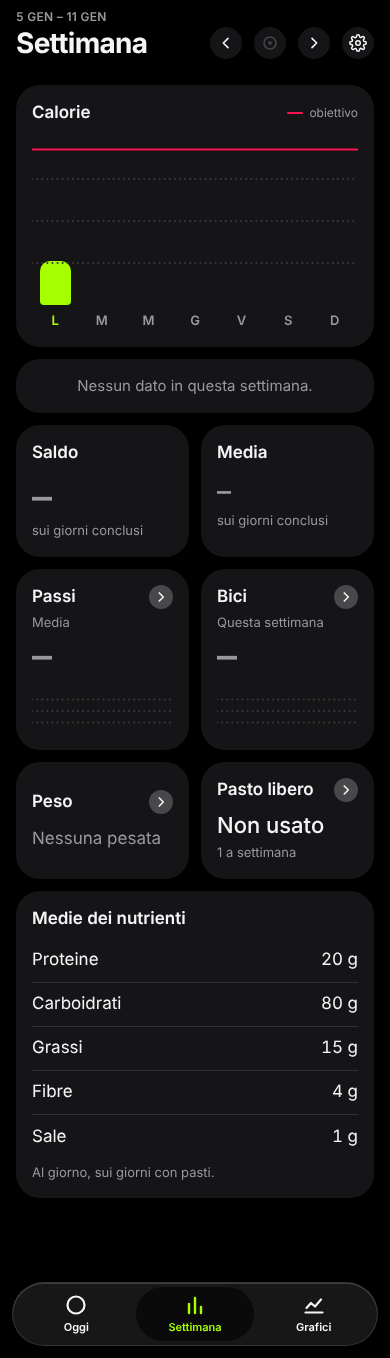
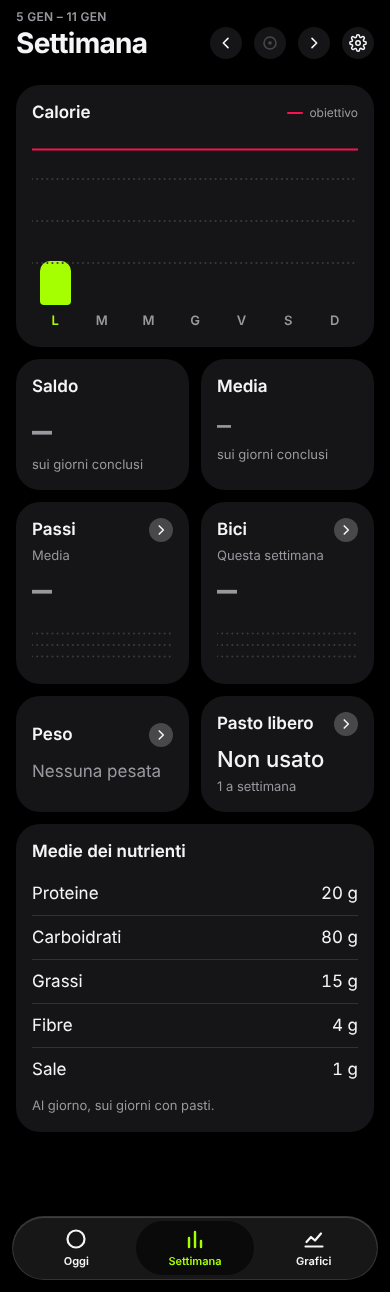
T6b.4 correzione: la Settimana non è vuota se ci sono pasti di oggi
Claude-Session: https://claude.ai/code/session_01TQMVgMkE62napq6RZvzJ62

diff --git a/src/app/lib/week-view.ts b/src/app/lib/week-view.ts
@@ -37,7 +37,7 @@ export function buildWeekView(input: { date: DateKey; days: readonly Day[]; sett
     barRatio: d.kcalEaten / top,
     targetRatio: d.target / top,
   }));
-  const isEmpty =
-    summary.balance === null && summary.totalKm === null && summary.avgSteps === null;
+  // Senza pasti (anche quelli di oggi: il saldo non li conta), km e passi. Il saldo non basta: con i soli pasti di oggi è assente.
+  const isEmpty = !summary.days.some((d) => d.hasMeals) && summary.totalKm === null && summary.avgSteps === null;
   return { summary, bars, avgRatio: summary.avgKcal === null ? null : summary.avgKcal / top, isEmpty };
 }

diff --git a/src/app/lib/week-view.test.ts b/src/app/lib/week-view.test.ts
@@ -83,4 +83,10 @@ describe("linea della media kcal (T5b.6)", () => {
     const v = buildWeekView({ date: "2026-01-05", days, settings: s, today: "2026-01-20" });
     expect(v.avgRatio as number).toBeLessThanOrEqual(1);
   });
+
+  it("solo i pasti di oggi: il saldo è assente (trattino) ma la settimana non è vuota", () => {
+    const v = buildWeekView({ date: "2026-01-05", days: [day("2026-01-05", [meal("a", 600)])], settings: s, today: "2026-01-05" });
+    expect(v.summary.balance).toBeNull();
+    expect(v.isEmpty).toBe(false);
+  });
 });

diff --git a/docs/DIARIO.md b/docs/DIARIO.md
@@ -82,7 +82,7 @@ Una riga per task chiuso.
 - T6b.1 · fatto · misurati con `npm run prova-comandi` Oggi (con pasti/senza/futuro), Settimana (con dati/senza/appena iniziata, anche altezza delle schede Calorie, Passi, Bici), scheda del piatto (AI↔Manuale, caricamento, errore), pannello Aggiungi (prima/dopo la proposta), Impostazioni (elenco↔pagina). Spostati e corretti con `tall` (altezza fissa, il corpo scorre dentro): Aggiungi, Modifica piatto, Impostazioni; la prova sul codice precedente falliva (12 controlli). Oggi e Settimana già fermi. Non corretto, da riferire: la scheda Calorie di Oggi è alta 227,5 px con la riga di composizione e 196 senza (BRIEF §2: la riga c'è solo se c'è qualcosa oltre alla base).
 - T6b.2 · fatto · «Attiva»/«Attivo» in Collegamenti nel colore In obiettivo (`valueTone` di `ValueRow`); nello scorrimento ogni azione è una tessera separata (raggio tessera, spazio di 8 px) nel componente condiviso `SwipeRow`, quindi Preferiti e Oggi (e gli elenchi dei pannelli della Settimana) hanno lo stesso aspetto; «Calorie di base» calcolate in Obiettivi mostrate «2.140» finché il campo non ha il fuoco (`shown` di `RowInput`), kcal della proposta AI col punto (`kcalText`); test del formato su 999, 1000, 2140, 12345; ricerca a mano dei numeri non formattati in `src/app`: nessun altro caso. `tools/prova-scorrimento.mjs`: il passo 7 tocca la parte visibile della riga aperta.
 - T6b.3 · fatto · `oggi-dopo-modifica-settimana` riparato (era lo scenario: dalla fase 6 si elimina scorrendo e l'etichetta è «Elimina il valore di Giovedì 8»; nessun difetto dell'app); `tools/screens.mjs` prosegue dopo uno scenario rotto, elenca i falliti in fondo (`XX … SCENARIO FALLITO`) ed esce con errore (provato con uno scenario volutamente rotto, poi tolto); rigenerati tutti i 16 scenari `nav-*` e `pasti-*` (10 PNG cambiati: nav-avviso-salute, nav-fine-pagina-375, nav-impostazioni-settimana, nav-intestazione-375, nav-oggi-altro-giorno, nav-oggi, pasti-libero-piu-piatti, pasti-quattro, pasti-tre-piatti, pasti-un-piatto).
-- T6b.4 · fatto · `weekSummary`: il saldo mostrato conta solo i giorni con pasti precedenti a oggi (senza `today` nessuno escluso); `runBalance`/`weekBalanceBefore` e i test esistenti invariati; nuovi test AJ (+200), AK (trattino), AL (−400), AM (+300) e tre di contorno. Scheda Saldo: «sui giorni conclusi» al posto di «di margine» / «da recuperare»; scenari `settimana-saldo-conclusi` e `settimana-saldo-trattino`.
+- T6b.4 · fatto · `weekSummary`: il saldo mostrato conta solo i giorni con pasti precedenti a oggi (senza `today` nessuno escluso); `runBalance`/`weekBalanceBefore` e i test esistenti invariati; nuovi test AJ (+200), AK (trattino), AL (−400), AM (+300) e tre di contorno. Scheda Saldo: «sui giorni conclusi» al posto di «di margine» / «da recuperare»; scenari `settimana-saldo-conclusi` e `settimana-saldo-trattino`. Correzione successiva: `isEmpty` di `buildWeekView` ora guarda i giorni con pasti (non più il saldo, che con i soli pasti di oggi è assente): senza di essa compariva «Nessun dato in questa settimana.» con un pasto oggi.
 - T6.7 · fatto · `docs/REPORT-FASE-6.md` scritto; pull request verso main aperta a fine fase.
 
 ## Decisioni da confermare
